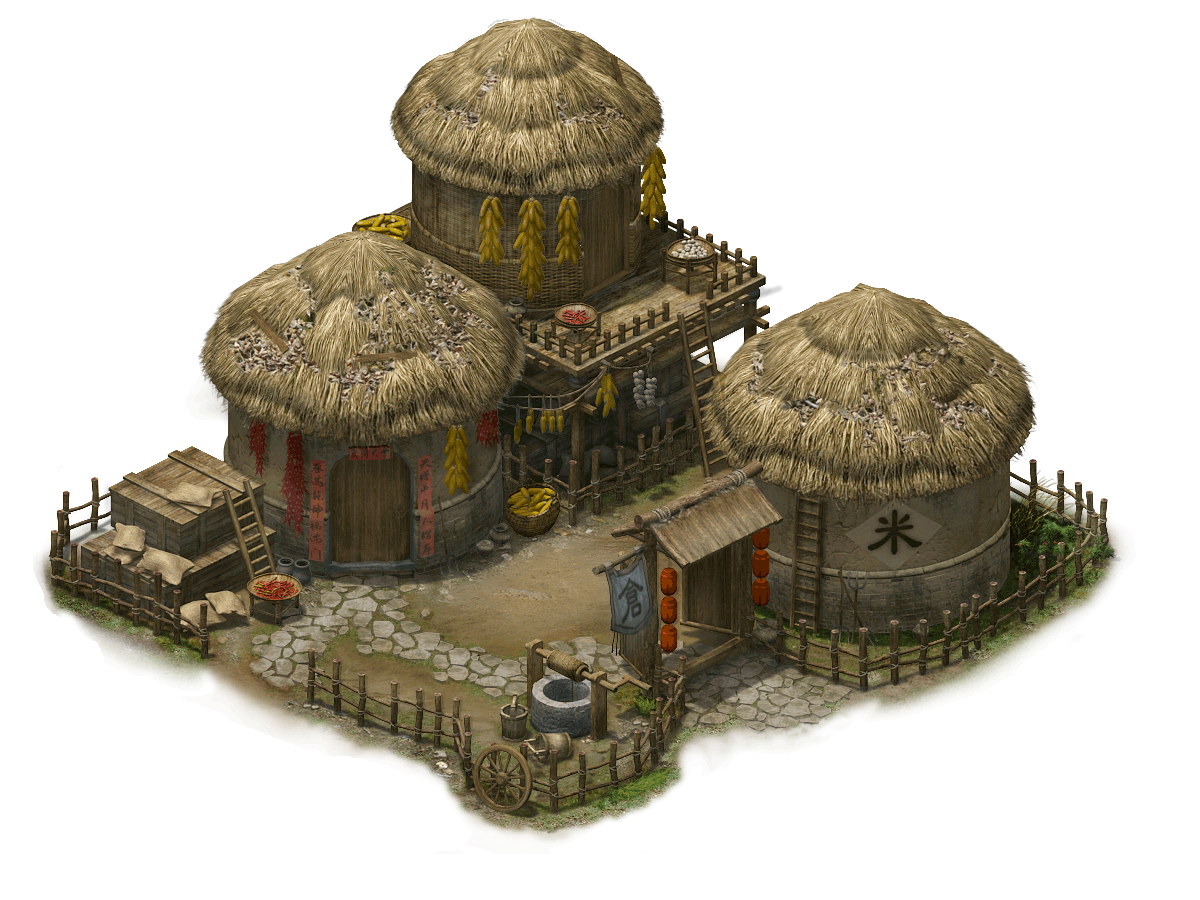
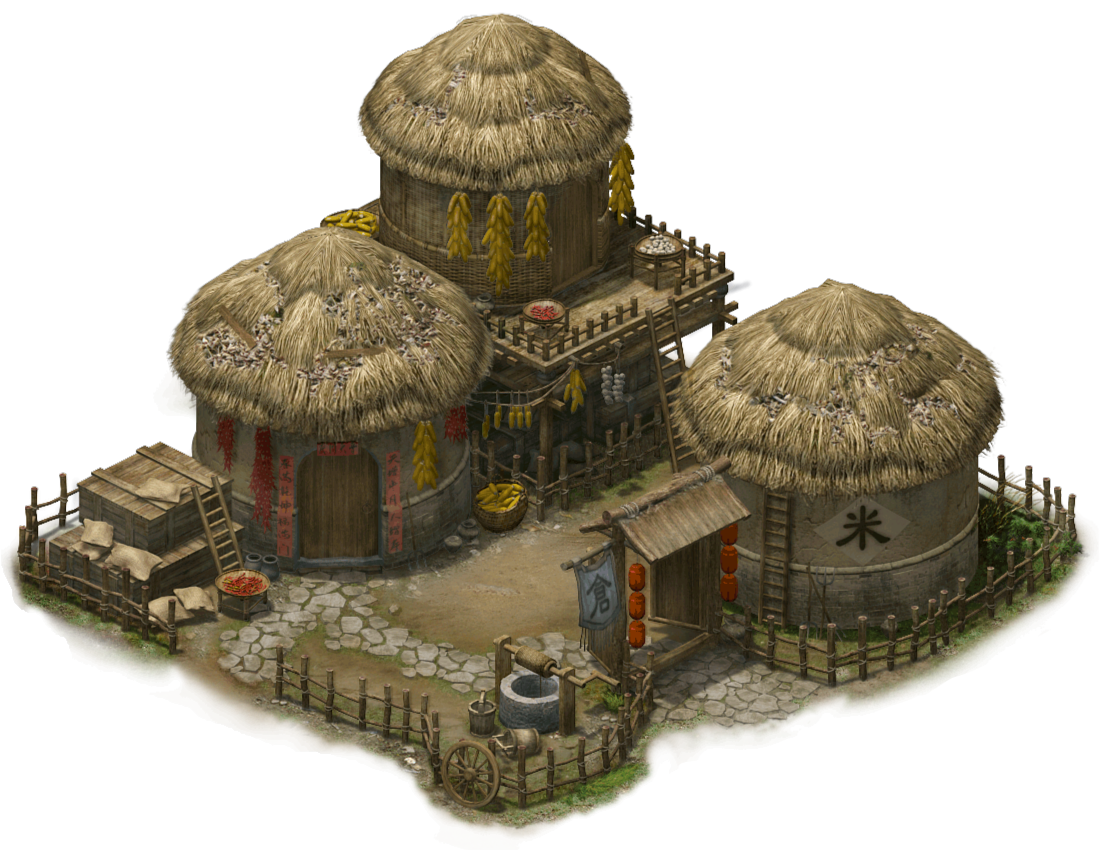
trees added

diff --git a/public/js/states/game.js b/public/js/states/game.js
@@ -55,6 +55,7 @@ export default class GameState extends Phaser.State {
 		this.load.image('building1', '../../assets/building1.png')
 		this.load.image('building2', '../../assets/building2.png')
 		this.load.image('building3', '../../assets/building3.png')
+		this.load.image('tree1', '../../assets/tree1.png')
 		//this.load.spritesheet('zombieattack', '/assets/zombieattackspritesheet.png',430,519,8)
 		this.load.spritesheet('player', '/assets/playerspritesheet.png',24,32)
 		this.load.spritesheet('zombiewalk', '/assets/zombiewalkspritesheet.png',430,519,10)
@@ -92,6 +93,8 @@ export default class GameState extends Phaser.State {
 		this.spawnBuilding(652, 961, 'building1');
 		this.spawnBuilding(821, 1480, 'building2');
 		this.spawnBuilding(1400, 1003, 'building3');
+		this.spawnBuilding(100, 100, 'tree1');
+
 
 		this.shadowTexture = this.add.bitmapData(1920, 1920)
 
@@ -139,7 +142,7 @@ export default class GameState extends Phaser.State {
 				posY: player.sprite.y
 			});
 
-			this.updateShadowTexture(player);
+			// this.updateShadowTexture(player);
 
 			this.zombies.forEach((z) => {
 				this.io.emit('client:zombie-moved', {

diff --git a/public/js/main.js b/public/js/main.js
@@ -23,8 +23,8 @@ class game extends Phaser.Game {
 		this.state.add('Preload', Preload);
 		this.state.add('HowToPlay', HowToPlay);
 		// this.state.start('HowToPlay');
-		// this.state.start('Preload');
-		this.state.start('MenuState');
+		this.state.start('Preload');
+		// this.state.start('MenuState');
 	}
 }
 

diff --git a/public/js/building.js b/public/js/building.js
@@ -12,7 +12,7 @@ export default class Building {
     this.sprite.body.immovable = true;
     this.sprite.anchor.setTo(0.5, 0.5)
     // this.sprite.scale.setTo(0.75, 0.75)
-    this.sprite.scale.setTo(0.3)
+    this.sprite.scale.setTo(0.28)
     this.sprite.x = x
     this.sprite.y = y
 
